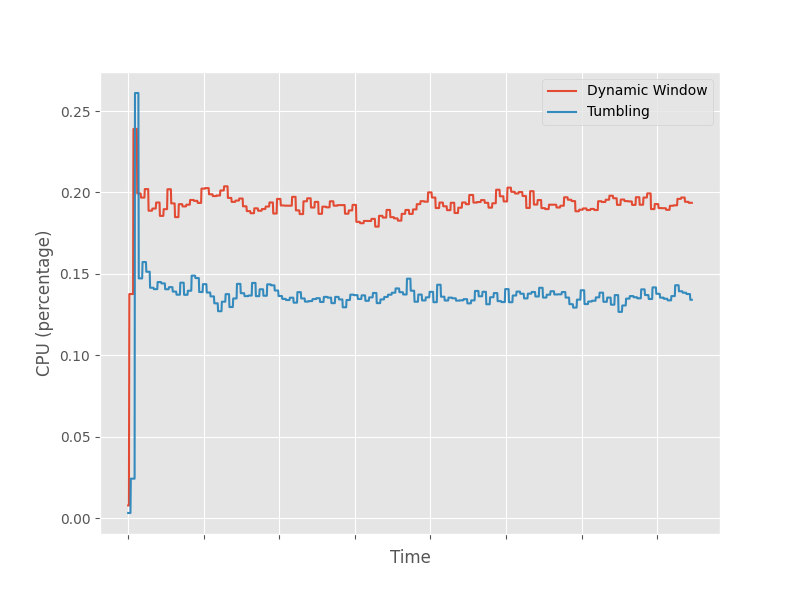
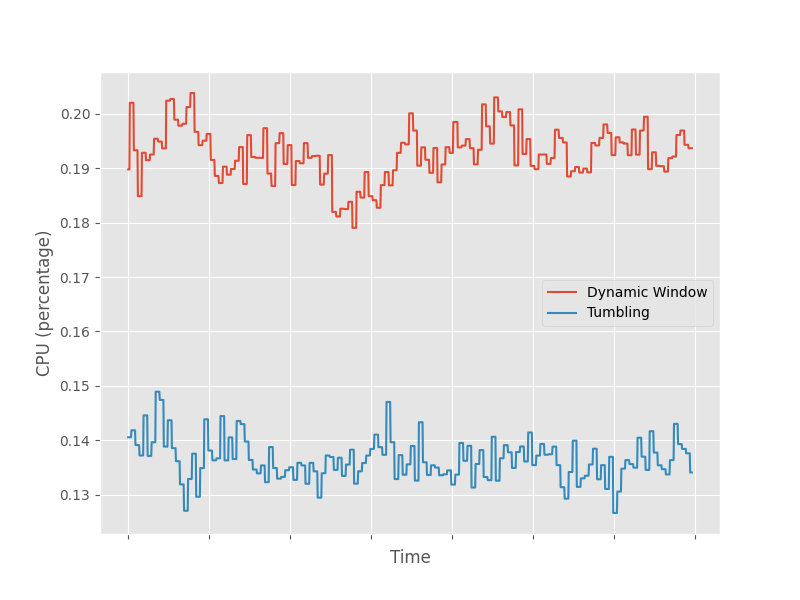
update plots

diff --git a/src/visualizers/visualizer.py b/src/visualizers/visualizer.py
@@ -58,6 +58,16 @@ def draw_boxplot_ax(data: pd.DataFrame,
                         labels=labels)  # will be used to label x-ticks
     ax.set_title(title)
 
+    for key in ["whiskers", "medians", "caps"]:
+        for line in bplot2[key]:
+            (_, y), (xr, _) = line.get_xydata()
+            if key == "whiskers":
+                xr = xr + 0.04
+            xr = xr + 0.05
+            ax.text(xr, y, "%3.f" % y,
+                    verticalalignment="center",
+                    fontsize=12)
+
     # fill with colors
     if len(data.columns) > 1:
         colors = ['pink', 'lightblue', 'lightgreen']
@@ -247,9 +257,10 @@ def visualize_throughput(dyn_vert: m_parser.DFConsolidator,
                        np.arange(0, throughput_df.shape[0]),
                        "",
                        ylabel="Throughput (records/s)",
-                       xlabel="Time (s)",
+                       xlabel="Time",
                        ax=ax)
 
+    ax.set_xticklabels([])
     plt.savefig(output_dir.joinpath("throughput_comparison.png"))
     plt.close()
 
@@ -371,7 +382,7 @@ def visualize_jvm_stats(dyn_task: m_parser.DFConsolidator,
     dyn_cpu_df = dyn_task.get_columns(metric="CPU.Load_avg")
     tumb_cpu_df = tumb_task.get_columns(metric="CPU.Load_avg")
 
-    cpu_df = pd.concat([dyn_cpu_df, tumb_cpu_df], axis=1)
+    cpu_df = pd.concat([dyn_cpu_df[100:], tumb_cpu_df[100:]], axis=1)
     cpu_df.columns = ["Dynamic Window", "Tumbling"]
     ax = plt.subplot(111)
     ax = draw_lineplot(cpu_df,
